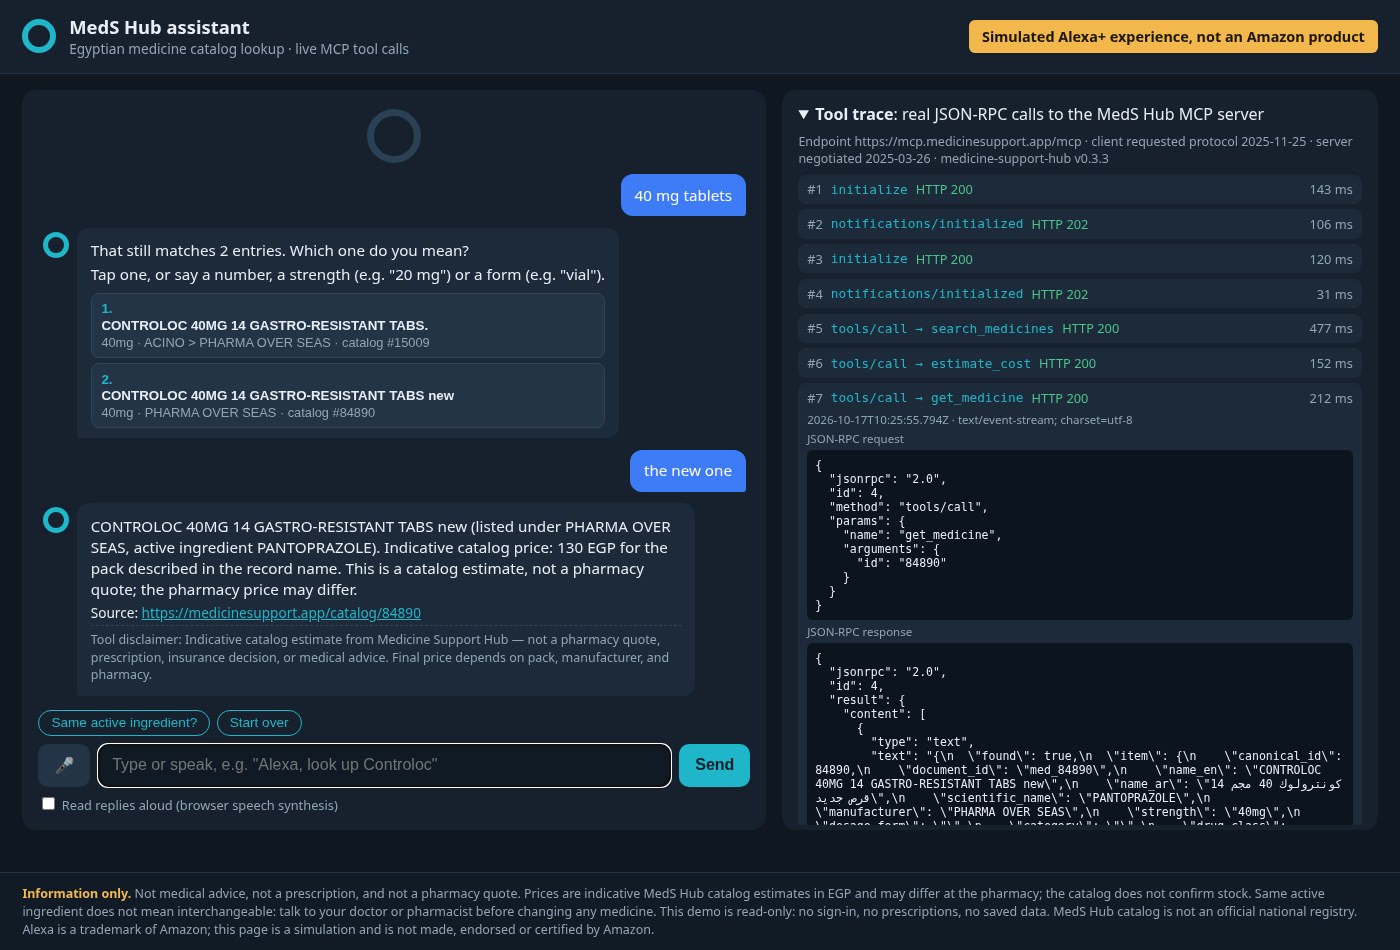
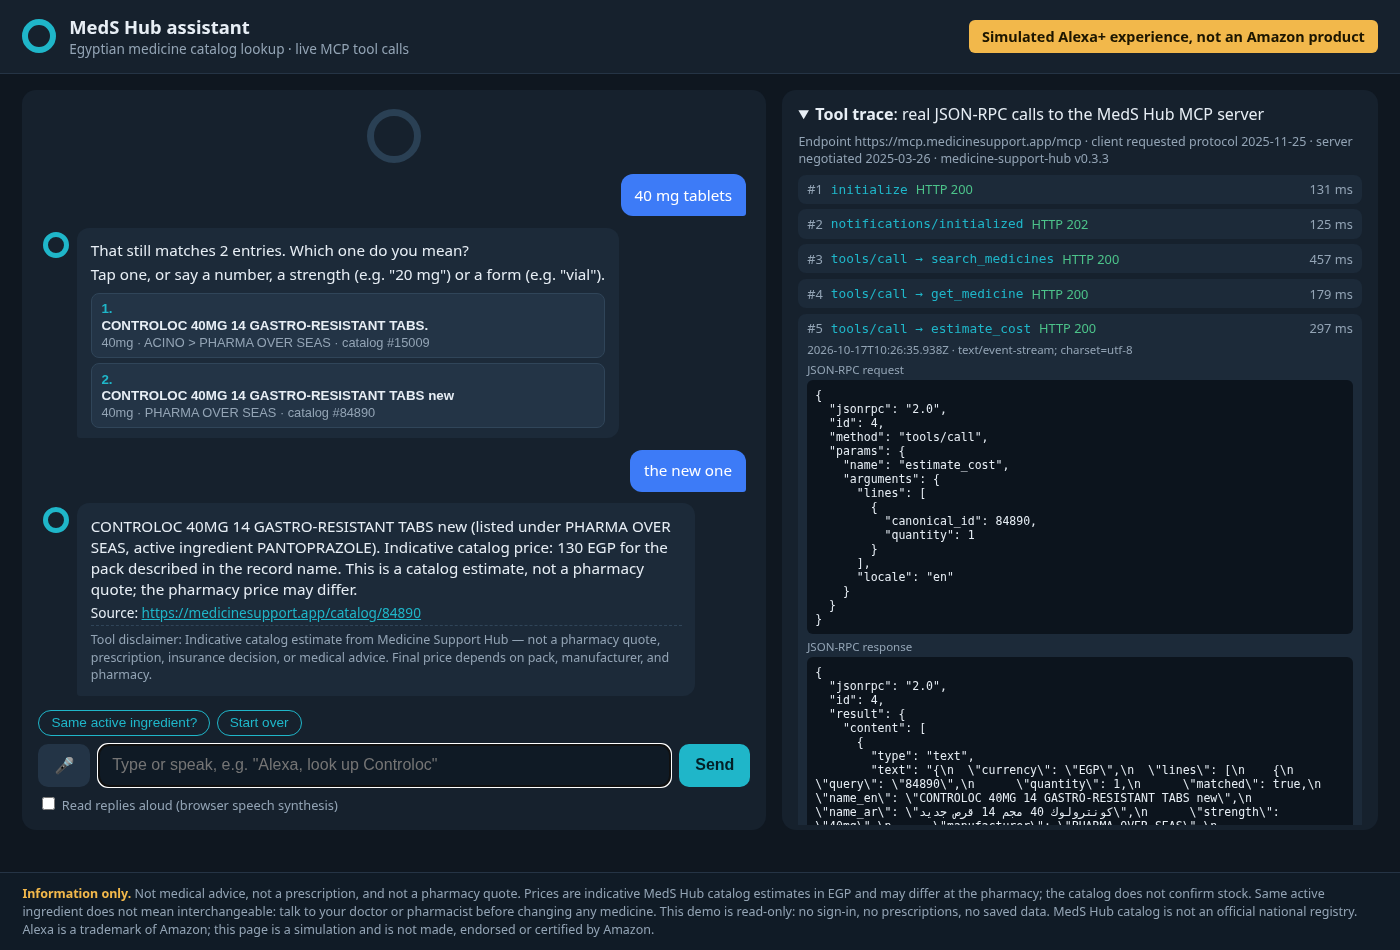
Share in-flight MCP initialize; refresh screenshots

diff --git a/server/mcpClient.ts b/server/mcpClient.ts
@@ -184,7 +184,16 @@ export class McpClient {
     }
   }
 
-  async initialize(trace: TraceEntry[]): Promise<McpSessionInfo> {
+  /** Start a fresh session. Concurrent tool calls wait for an in-flight initialize instead of starting another. */
+  initialize(trace: TraceEntry[]): Promise<McpSessionInfo> {
+    const p = this.doInitialize(trace).finally(() => {
+      if (this.initPromise === p) this.initPromise = null;
+    });
+    this.initPromise = p;
+    return p;
+  }
+
+  private async doInitialize(trace: TraceEntry[]): Promise<McpSessionInfo> {
     this.session = null;
     const id = this.nextId++;
     const { res, match } = await this.post(
@@ -215,11 +224,8 @@ export class McpClient {
   }
 
   async callTool(name: string, args: Record<string, unknown>, trace: TraceEntry[]): Promise<ToolCallOutcome> {
-    if (this.sessionExpired()) {
-      // Share one in-flight initialize between concurrent callers.
-      this.initPromise ??= this.initialize(trace).finally(() => (this.initPromise = null));
-      await this.initPromise;
-    }
+    if (this.initPromise) await this.initPromise;
+    else if (this.sessionExpired()) await this.initialize(trace);
     const send = () =>
       this.post({ jsonrpc: "2.0", id: this.nextId++, method: "tools/call", params: { name, arguments: args } }, trace, name);
     let { res, match } = await send();

diff --git a/tests/mcpClient.test.ts b/tests/mcpClient.test.ts
@@ -87,6 +87,23 @@ describe("McpClient handshake", () => {
     expect(inits).toBe(2);
   });
 
+  it("does not start a second initialize while one is in flight", async () => {
+    let inits = 0;
+    const fakeFetch = async (_url: string, init: RequestInit) => {
+      const body = JSON.parse(String(init.body));
+      if (body.method === "initialize") {
+        inits++;
+        await new Promise((r) => setTimeout(r, 20));
+        return new Response(JSON.stringify({ jsonrpc: "2.0", id: body.id, result: { protocolVersion: "2025-03-26" } }), { headers: { "content-type": "application/json" } });
+      }
+      if (!body.id) return new Response(null, { status: 202 });
+      return new Response(JSON.stringify({ jsonrpc: "2.0", id: body.id, result: { structuredContent: {} } }), { headers: { "content-type": "application/json" } });
+    };
+    const client = new McpClient("https://example.test/mcp", fakeFetch);
+    await Promise.all([client.initialize([]), client.callTool("get_disclaimer", {}, []), client.callTool("get_disclaimer", {}, [])]);
+    expect(inits).toBe(1);
+  });
+
   it("surfaces network failures in the trace", async () => {
     const client = new McpClient("https://example.test/mcp", async () => {
       throw new Error("ECONNREFUSED");
